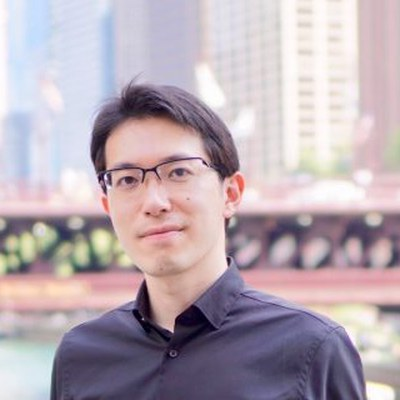
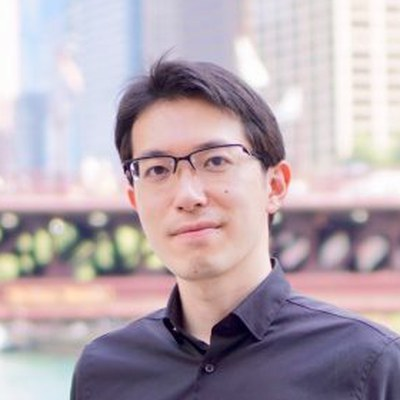
Update organizer links

diff --git a/content/site.ts b/content/site.ts
@@ -17,6 +17,7 @@ export const site = {
   title: "The Future of Technology-Mediated Motor Learning",
   dateBadge: "10 MAY 2027",
   designer: "Yuto Suzuki",
+  designerUrl: "https://yutosuzuki.vercel.app/",
 };
 
 export const about: string[] = [
@@ -85,20 +86,20 @@ export type Organizer = {
 };
 
 export const organizers: Organizer[] = [
-  { name: "Nihar Sabnis", photo: "/images/organizers/nihar-sabnis.jpg", role: "Postdoc", affiliation: "ETH Zürich" },
-  { name: "Yuto Suzuki", photo: "/images/organizers/yuto-suzuki.jpg", role: "Ph.D. Student", affiliation: "Hokkaido University" },
+  { name: "Nihar Sabnis", url: "https://sms.hest.ethz.ch/the-group/team/nihar-sabnis.html", photo: "/images/organizers/nihar-sabnis.jpg", role: "Postdoc", affiliation: "ETH Zürich" },
+  { name: "Yuto Suzuki", url: "https://yutosuzuki.vercel.app/", photo: "/images/organizers/yuto-suzuki.jpg", role: "Ph.D. Student", affiliation: "Hokkaido University" },
   {
-    name: "Ana Tajadura-Jiménez", photo: "/images/organizers/ana-tajadura-jimenez.jpg",
+    name: "Ana Tajadura-Jiménez", url: "https://www.dei.inf.uc3m.es/portal/index.php?page=people-personal&id=1234", photo: "/images/organizers/ana-tajadura-jimenez.jpg",
     role: "Associate Professor",
     affiliation: "Universidad Carlos III de Madrid / University College London",
   },
-  { name: "Jun Nishida", photo: "/images/organizers/jun-nishida.jpg", role: "Assistant Professor", affiliation: "University of Maryland" },
-  { name: "Donald Degraen", photo: "/images/organizers/donald-degraen.jpg", role: "Lecturer / Assistant Professor", affiliation: "University of Canterbury" },
-  { name: "Laia Turmo Vidal", photo: "/images/organizers/laia-turmo-vidal.jpg", role: "Assistant Professor", affiliation: "KTH Royal Institute of Technology" },
-  { name: "Don Samitha Elvitigala", photo: "/images/organizers/don-samitha-elvitigala.jpg", role: "Lecturer / Assistant Professor", affiliation: "Monash University" },
-  { name: "Robert Riener", photo: "/images/organizers/robert-riener.jpg", role: "Professor", affiliation: "ETH Zürich" },
-  { name: "José Manuel Vega-Cebrián", photo: "/images/organizers/jose-manuel-vega-cebrian.jpg", role: "Postdoc", affiliation: "Universidad Carlos III de Madrid" },
-  { name: "Peter Wolf", photo: "/images/organizers/peter-wolf.jpg", role: "Senior Scientist", affiliation: "ETH Zürich" },
+  { name: "Jun Nishida", url: "https://junis.sakura.ne.jp/wp/", photo: "/images/organizers/jun-nishida.jpg", role: "Assistant Professor", affiliation: "University of Maryland" },
+  { name: "Donald Degraen", url: "https://donalddegraen.com/", photo: "/images/organizers/donald-degraen.jpg", role: "Lecturer / Assistant Professor", affiliation: "University of Canterbury" },
+  { name: "Laia Turmo Vidal", url: "https://laiatv.github.io/", photo: "/images/organizers/laia-turmo-vidal.jpg", role: "Assistant Professor", affiliation: "KTH Royal Institute of Technology" },
+  { name: "Don Samitha Elvitigala", url: "https://samithaelvitigala.com/", photo: "/images/organizers/don-samitha-elvitigala.jpg", role: "Lecturer / Assistant Professor", affiliation: "Monash University" },
+  { name: "Robert Riener", url: "https://sms.hest.ethz.ch/the-group/team/robert-riener.html", photo: "/images/organizers/robert-riener.jpg", role: "Professor", affiliation: "ETH Zürich" },
+  { name: "José Manuel Vega-Cebrián", url: "https://imbodylab.com/2022/07/26/jose-manuel-vega-cebrian/", photo: "/images/organizers/jose-manuel-vega-cebrian.jpg", role: "Postdoc", affiliation: "Universidad Carlos III de Madrid" },
+  { name: "Peter Wolf", url: "https://sms.hest.ethz.ch/the-group/team/peter-wolf.html", photo: "/images/organizers/peter-wolf.jpg", role: "Senior Scientist", affiliation: "ETH Zürich" },
 ];
 
 /* ---------------- Call for Participation ---------------- */

diff --git a/components/Organizers.tsx b/components/Organizers.tsx
@@ -1,10 +1,10 @@
 import Avatar from "@mui/material/Avatar";
 import Box from "@mui/material/Box";
+import Link from "@mui/material/Link";
 import Typography from "@mui/material/Typography";
 import PersonIcon from "@mui/icons-material/Person";
 import { organizers } from "@/content/site";
 import { asset } from "@/lib/asset";
-import { colors } from "@/theme/colors";
 
 export default function Organizers() {
   return (
@@ -27,12 +27,19 @@ export default function Organizers() {
               mx: "auto",
               mb: 1.5,
               bgcolor: "rgba(255,255,255,0.12)",
-              border: `3px solid ${i % 2 === 0 ? colors.yellow : colors.pink}`,
             }}
           >
             <PersonIcon sx={{ fontSize: { xs: 56, md: 72 }, color: "rgba(255,255,255,0.6)" }} />
           </Avatar>
-          <Typography sx={{ fontWeight: 700, lineHeight: 1.3 }}>{o.name}</Typography>
+          <Typography sx={{ fontWeight: 700, lineHeight: 1.3 }}>
+            {o.url ? (
+              <Link href={o.url} target="_blank" rel="noopener" color="inherit" underline="hover">
+                {o.name}
+              </Link>
+            ) : (
+              o.name
+            )}
+          </Typography>
           <Typography sx={{ fontSize: "0.9rem", color: "text.secondary", lineHeight: 1.4 }}>{o.role}</Typography>
           <Typography sx={{ fontSize: "0.9rem", color: "text.secondary", lineHeight: 1.4 }}>{o.affiliation}</Typography>
         </Box>

diff --git a/components/Footer.tsx b/components/Footer.tsx
@@ -1,5 +1,6 @@
 import Box from "@mui/material/Box";
 import Container from "@mui/material/Container";
+import Link from "@mui/material/Link";
 import Typography from "@mui/material/Typography";
 import { site } from "@/content/site";
 
@@ -11,7 +12,10 @@ export default function Footer() {
           {site.conference} — {site.title}
         </Typography>
         <Typography sx={{ fontSize: "0.9rem", color: "text.secondary", mt: 0.5 }}>
-          Designed by {site.designer}
+          Designed by{" "}
+          <Link href={site.designerUrl} target="_blank" rel="noopener" color="inherit" underline="always">
+            {site.designer}
+          </Link>
         </Typography>
       </Container>
     </Box>
